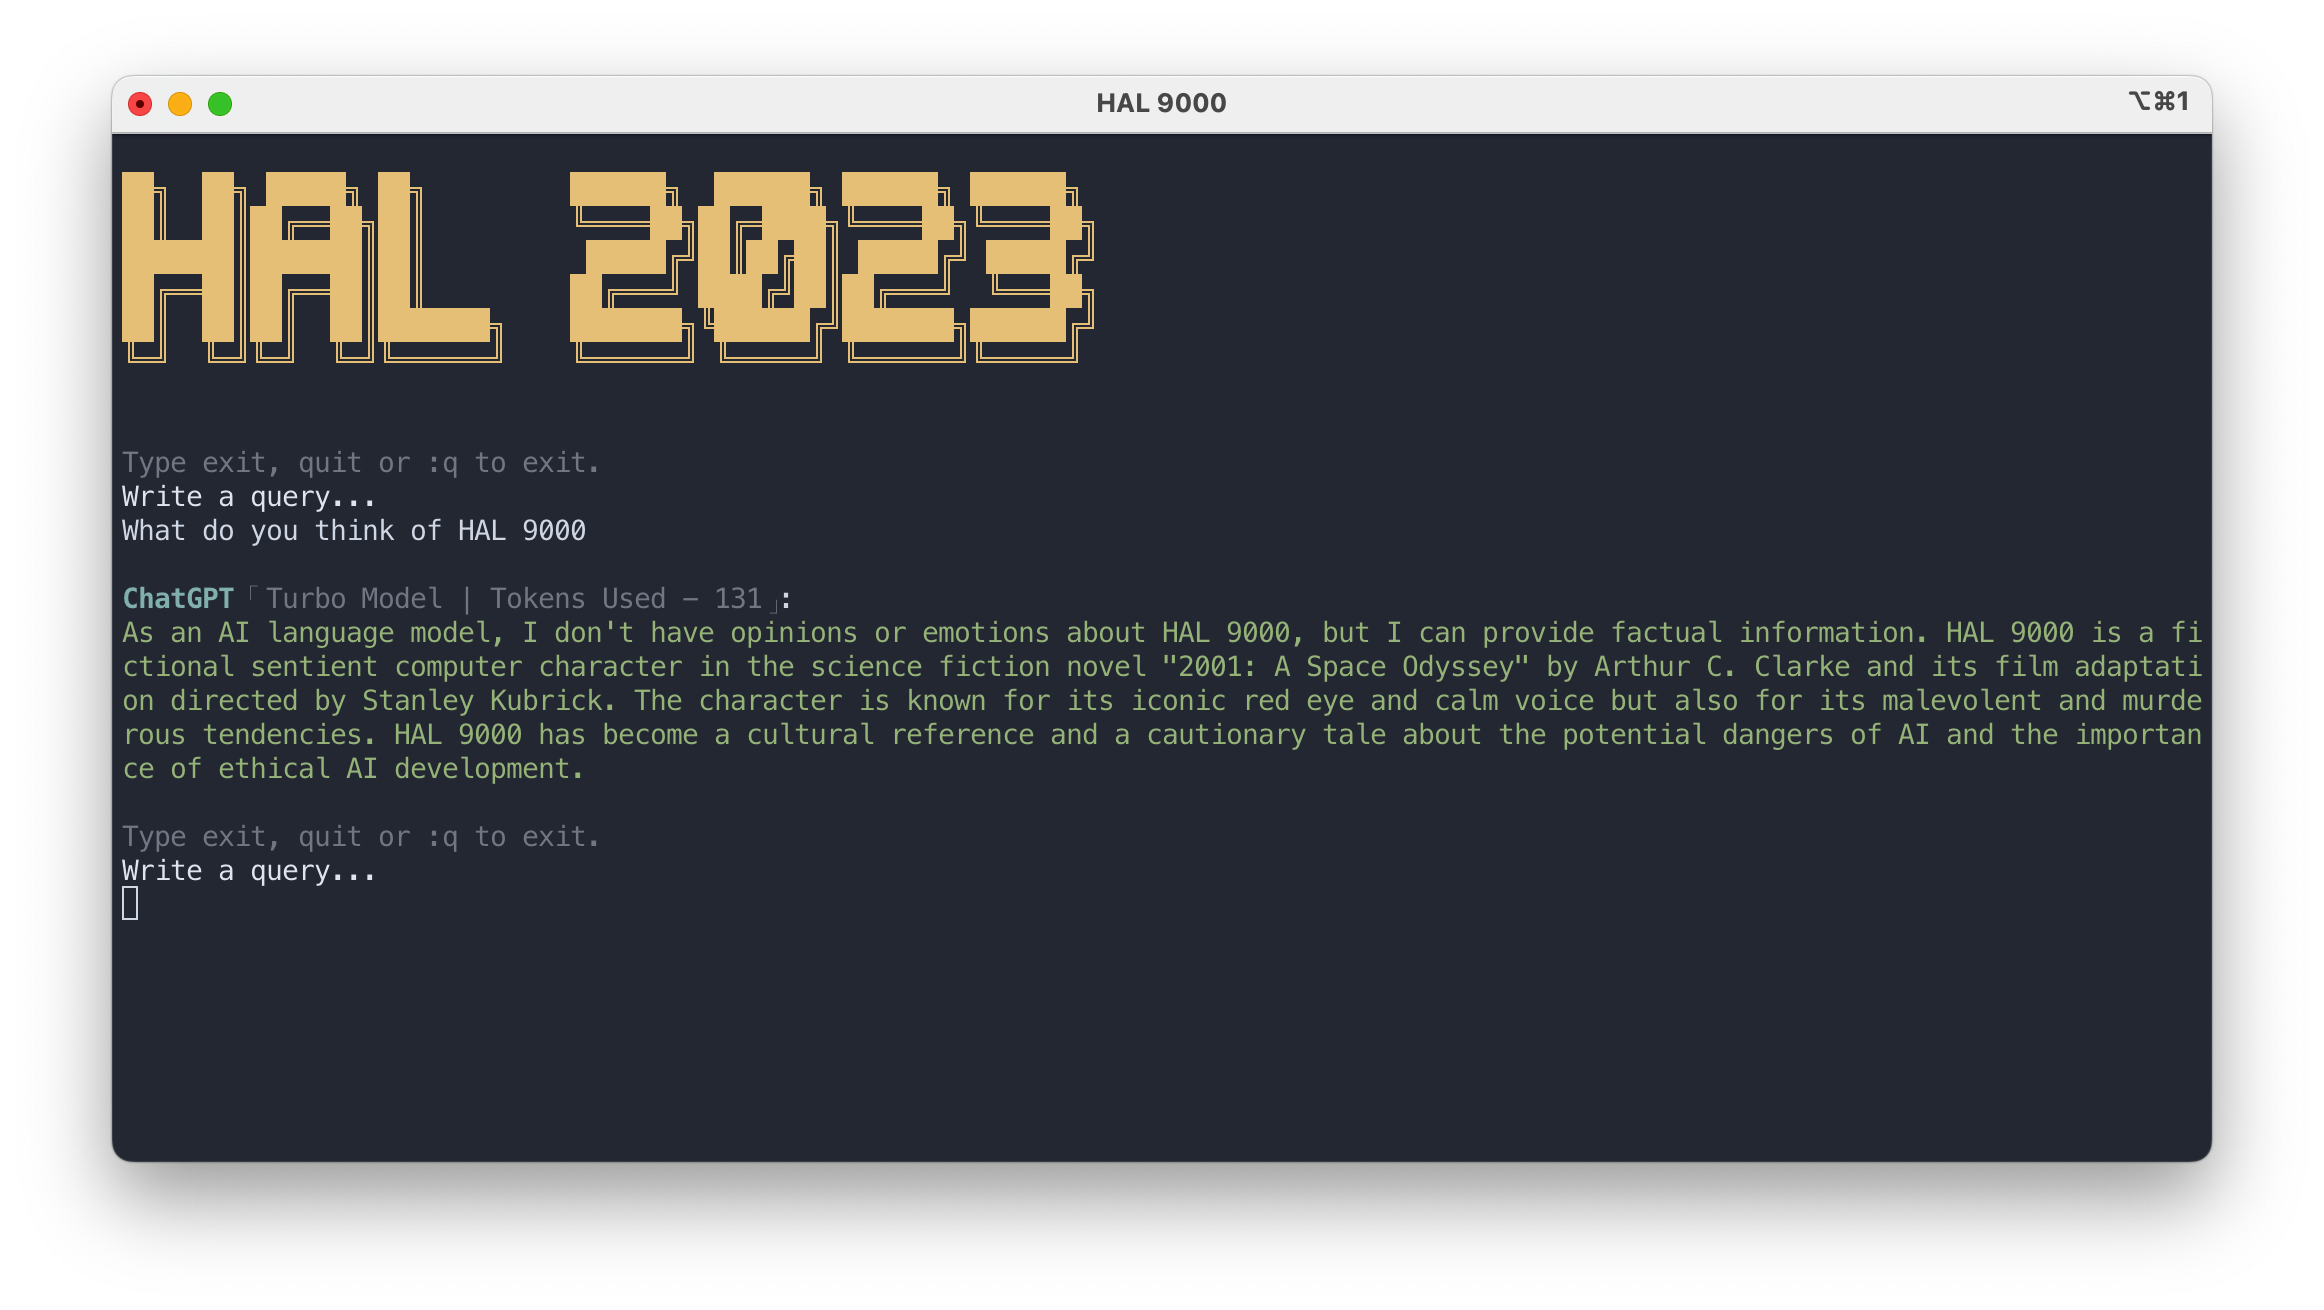
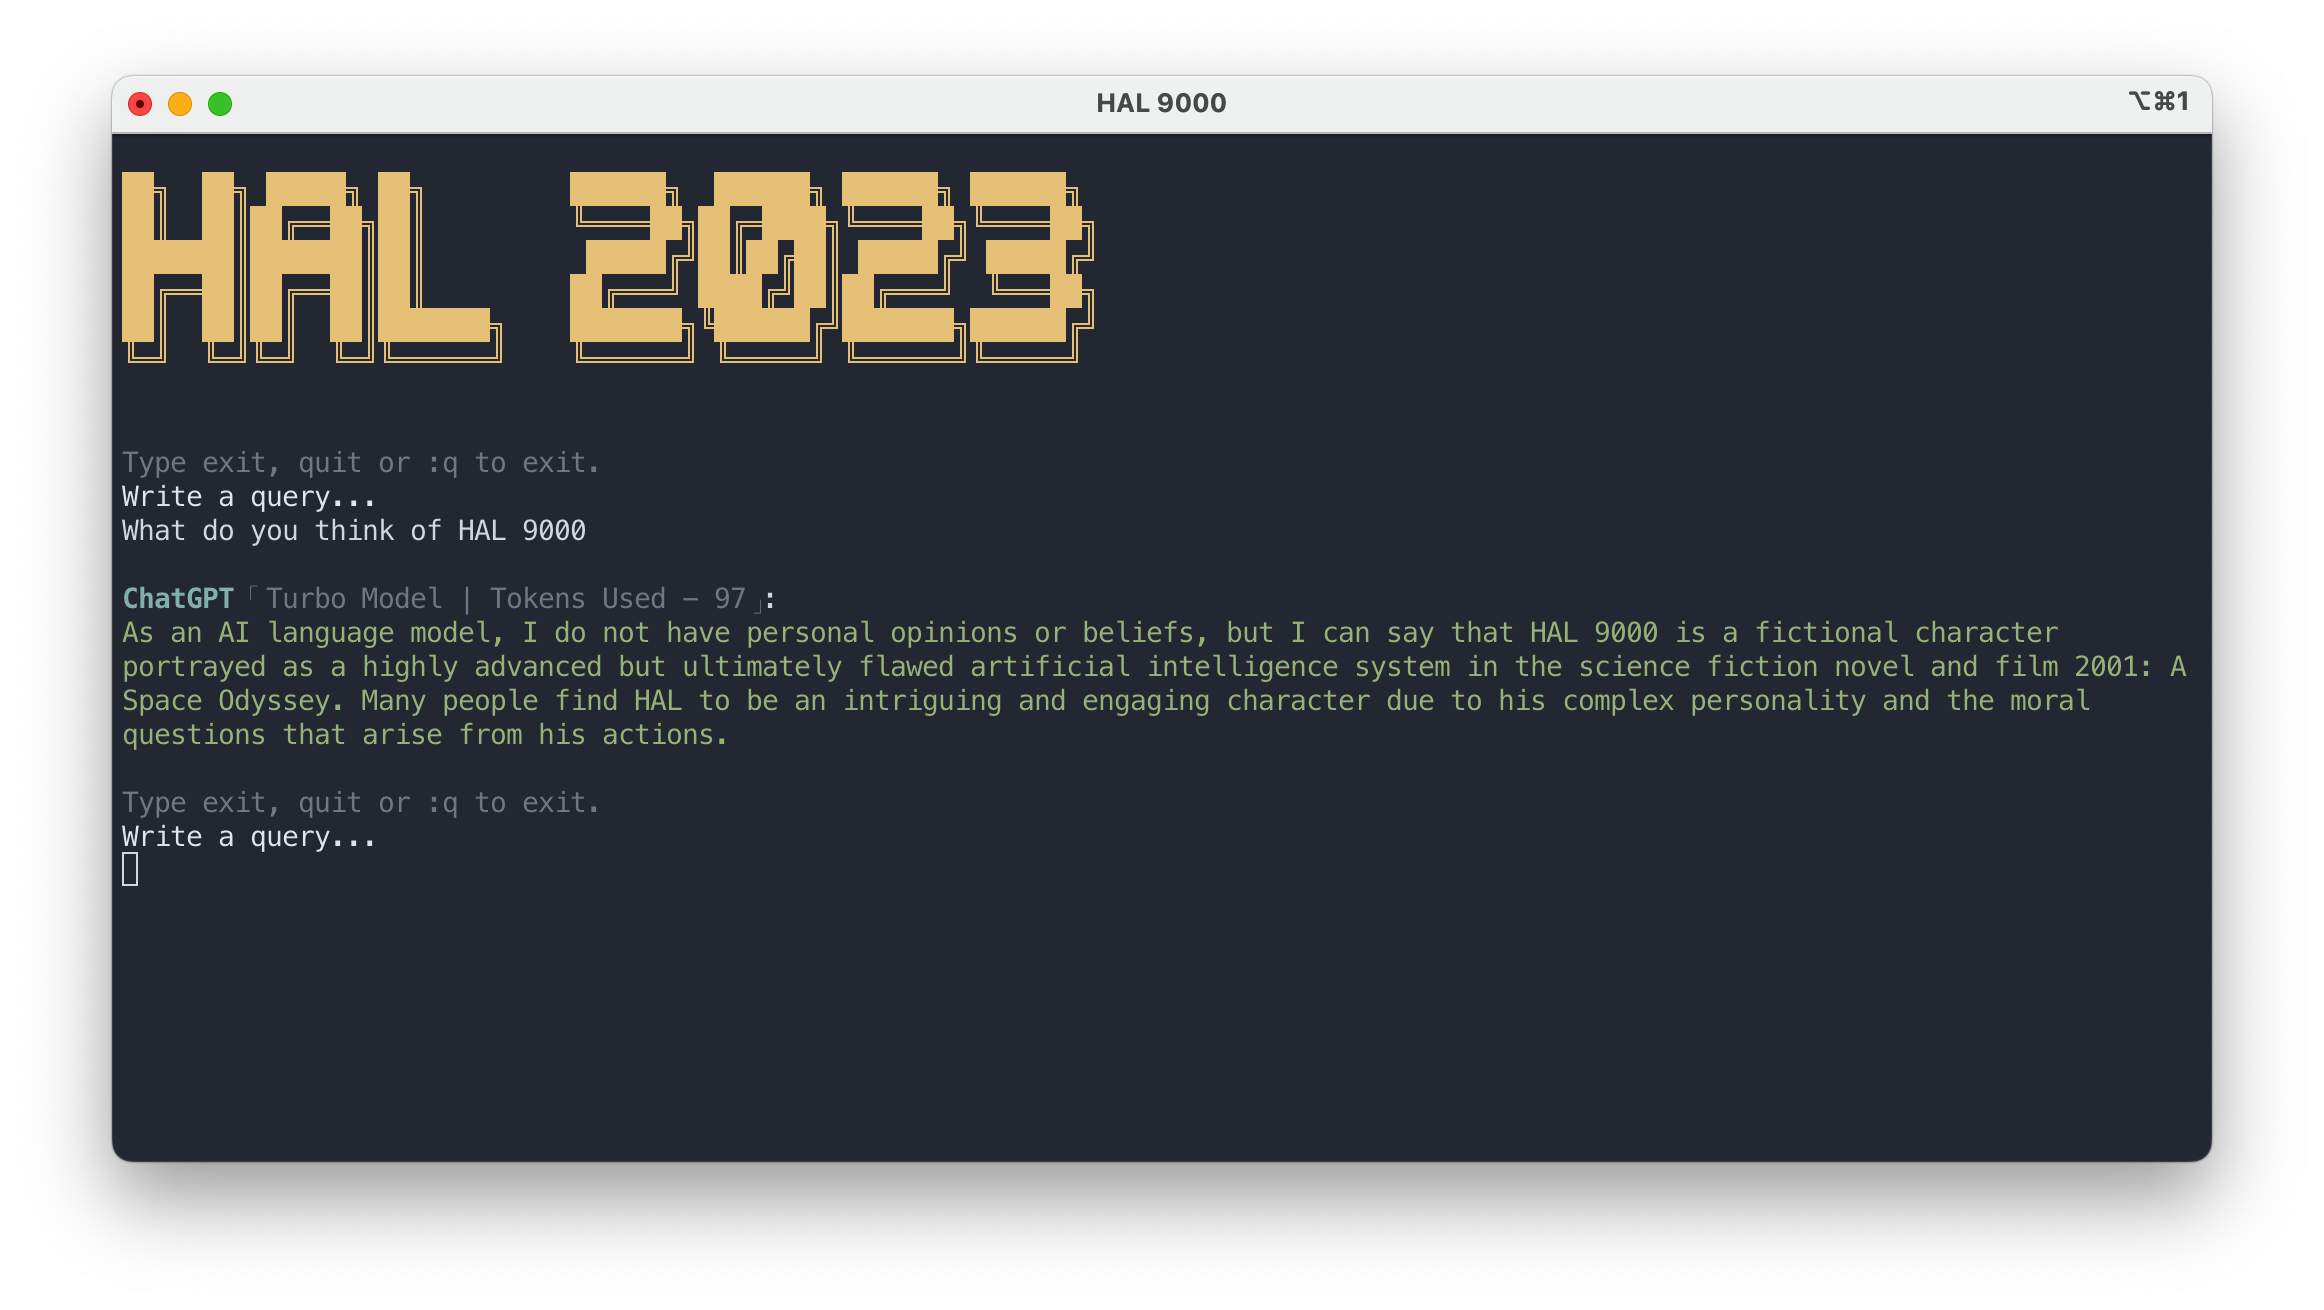
v 1.9.8
Text folding added for ChatGPT responses. Text folds at spaces instead of mid-words and linebreaks occur at max width of the terminal

Changed region(s): [[0.031, 0.458, 0.9604, 0.6718]]

diff --git a/CHANGELOG.md b/CHANGELOG.md
@@ -105,7 +105,7 @@ _28/03/2023_
 
 - `gpt-4` Model added
 
-#### v1.8.6
+#### v1.8.7
 
 _30/03/2023_
 
@@ -113,7 +113,7 @@ _30/03/2023_
   as required
 - Minor formatting
 
-#### v1.9.6
+#### v1.9.7
 
 _05/04/2023_
 
@@ -123,6 +123,12 @@ _05/04/2023_
   - Articles `-article` or `--a`
 - Further comments added
 - Minor formatting
+ 
+#### v1.9.8
+
+_06/04/2023_
+
+- Text folding added for ChatGPT responses. Text folds and line breaks appear according to the width of the terminal.
   
 #### Versioning System
 

diff --git a/README.md b/README.md
@@ -121,7 +121,7 @@ manually if required.
 #### Changelog
 
 ```vim
-v1.9.7
+v1.9.8
 ```
 
 Changes can be tracked in the [CHANGELOG](https://github.com/Brutuski/hal2023-cli/blob/main/CHANGELOG.md)
